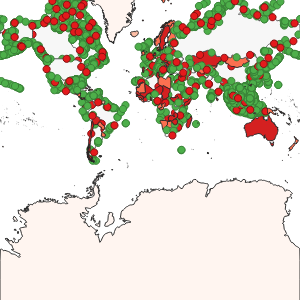
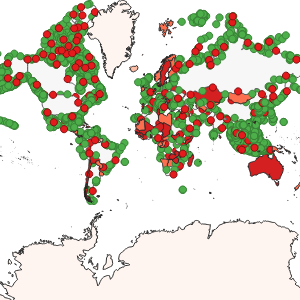
Fix bbox transform method to respect world boundaries

diff --git a/src/layman/common/bbox.py b/src/layman/common/bbox.py
@@ -1,4 +1,5 @@
 import logging
+import crs as crs_def
 from db import util as db_util
 
 logger = logging.getLogger(__name__)
@@ -73,8 +74,14 @@ def transform(bbox, crs_from, crs_to):
         return None, None, None, None
     srid_from = db_util.get_srid(crs_from)
     srid_to = db_util.get_srid(crs_to)
-    if srid_from == 4326 and srid_to == 3857:
-        bbox = (bbox[0], max(bbox[1], -89), bbox[2], min(bbox[3], 89))
+    world_bounds = crs_def.CRSDefinitions[crs_to].world_bounds.get(crs_from)
+    if world_bounds:
+        bbox = (
+            max(bbox[0], world_bounds[0]),
+            max(bbox[1], world_bounds[1]),
+            min(bbox[2], world_bounds[2]),
+            min(bbox[3], world_bounds[3]),
+        )
     query = f'''
     with tmp as (select ST_Transform(ST_SetSRID(ST_MakeBox2D(ST_Point(%s, %s), ST_Point(%s, %s)), %s), %s) bbox)
     select st_xmin(bbox),
@@ -85,6 +92,13 @@ def transform(bbox, crs_from, crs_to):
     ;'''
     params = tuple(bbox) + (srid_from, srid_to,)
     result = db_util.run_query(query, params)[0]
+    world_bbox = crs_def.CRSDefinitions[crs_to].world_bbox
+    result = (
+        max(result[0], world_bbox[0]),
+        max(result[1], world_bbox[1]),
+        min(result[2], world_bbox[2]),
+        min(result[3], world_bbox[3]),
+    )
     return result
 
 

diff --git a/src/crs/__init__.py b/src/crs/__init__.py
@@ -5,10 +5,12 @@ CRSTypeDef = namedtuple('CRSTypeDef', [
     'world_bbox',
     # If bounding box of layman.layer has no area in at least one dimension,
     # this padding in meters will be added to all dimensions whose coordinates equal
-    # for GeoServer feature type definiton and thumbnail rendering.
+    # for GeoServer feature type definition and thumbnail rendering.
     # E.g. if bbox is [5, 100, 5, 200] and NO_AREA_BBOX_PADDING = 10,
     # thumbnail will be rendered with bbox [-5, 100, 15, 200].
     'no_padding_area',
+    # Maximum coordinates of other CRS, which can be transformed
+    'world_bounds',
 ])
 
 EPSG_3857 = 'EPSG:3857'
@@ -23,6 +25,14 @@ CRSDefinitions = {
             20048966.10,
         ),
         no_padding_area=10,
+        world_bounds={
+            EPSG_4326: (
+                -180,
+                -85.06,
+                180,
+                85.06,
+            )
+        }
     ),
     EPSG_4326: CRSTypeDef(
         world_bbox=(
@@ -32,5 +42,6 @@ CRSDefinitions = {
             90,
         ),
         no_padding_area=0.00001,
+        world_bounds=dict(),
     )
 }

diff --git a/src/layman/common/bbox_test.py b/src/layman/common/bbox_test.py
@@ -1,5 +1,8 @@
 import pytest
 
+import crs as crs_def
+from layman import app
+from test_tools import assert_util
 from . import bbox as bbox_util
 
 
@@ -71,3 +74,17 @@ def test_has_area(bbox, expected_result):
 ])
 def test_ensure_bbox_with_area(bbox, no_area_padding, expected_result):
     assert bbox_util.ensure_bbox_with_area(bbox, no_area_padding) == expected_result
+
+
+@pytest.mark.parametrize('bbox, crs_from, crs_to, expected_bbox', [
+    (
+        crs_def.CRSDefinitions[crs_def.EPSG_4326].world_bbox,
+        crs_def.EPSG_4326,
+        crs_def.EPSG_3857,
+        crs_def.CRSDefinitions[crs_def.EPSG_3857].world_bbox,
+    ),
+])
+def test_transform(bbox, crs_from, crs_to, expected_bbox):
+    with app.app_context():
+        transformed_bbox = bbox_util.transform(bbox, crs_from, crs_to)
+    assert_util.assert_same_bboxes(transformed_bbox, expected_bbox, 0.1)

diff --git a/tests/static_data/__init__.py b/tests/static_data/__init__.py
@@ -555,7 +555,7 @@ PUBLICATIONS = {
             ]},
         ],
         TEST_DATA: {
-            'bbox': (-20037508.342789244, -30240971.95838617, 20037508.342789248, 18440002.8951142476),
+            'bbox': (-20026376.39, -20048966.1, 20026376.39, 18440002.895114247),
             'file_type': settings.FILE_TYPE_VECTOR,
             'style_type': 'sld',
             'micka_xml': {'filled_template': 'test_tools/data/micka/rest_test_filled_template.xml',
